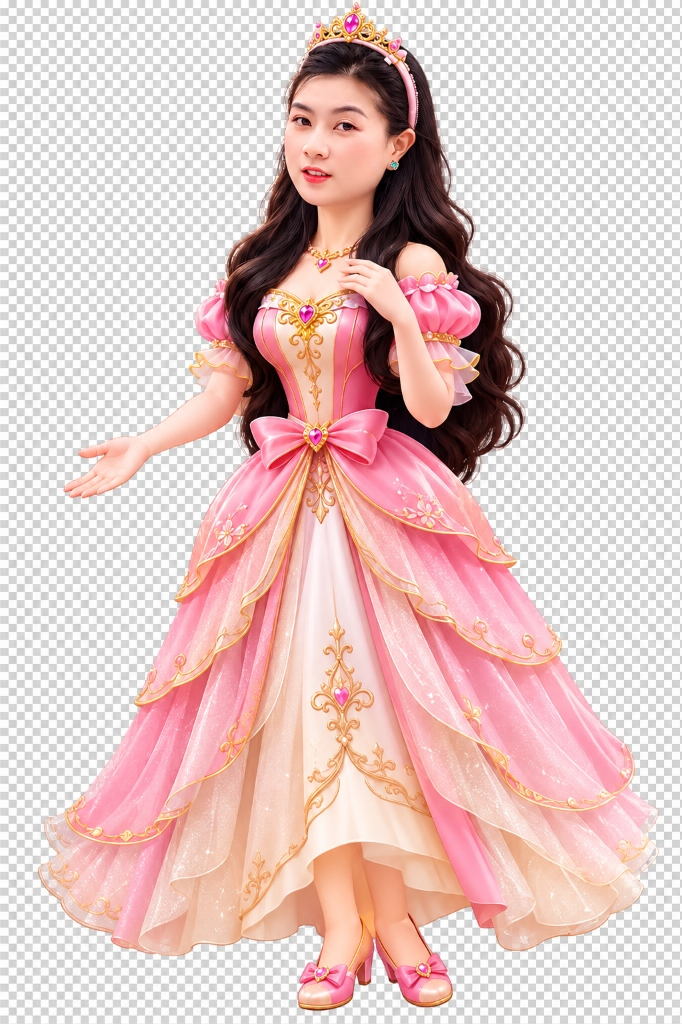
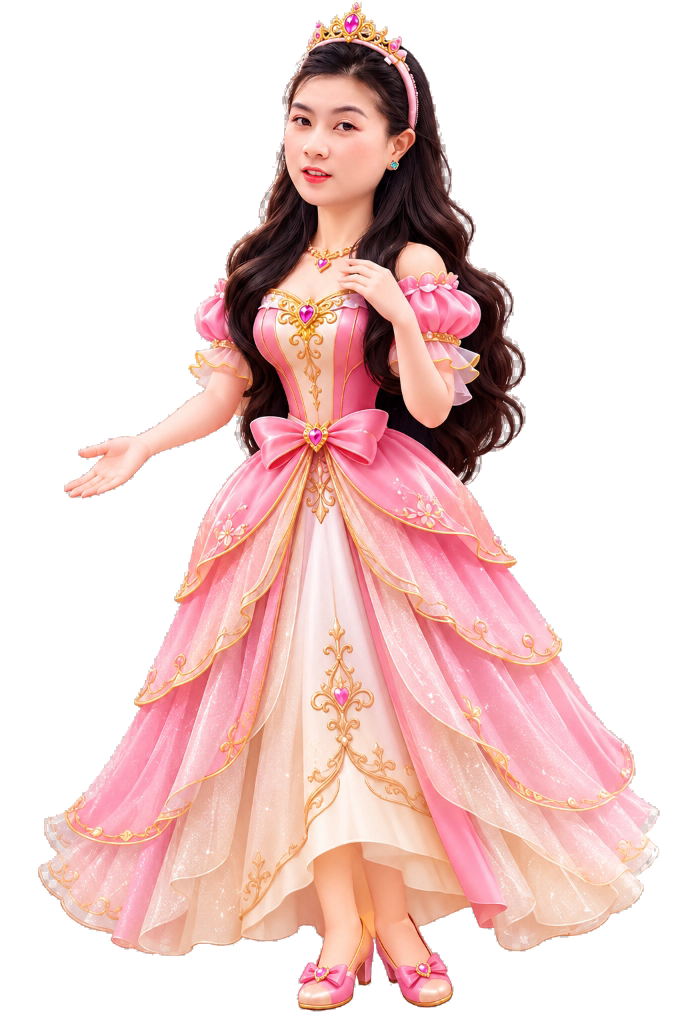
fix(ui): upgrade fonts to Baloo 2 + Nunito with full Vietnamese support, convert Queen image to transparent PNG

Changed region(s): [[0.0, 0.0, 1.0, 1.0]]

diff --git a/src/index.css b/src/index.css
@@ -1,3 +1,4 @@
+@import url('https://fonts.googleapis.com/css2?family=Baloo+2:wght@500;600;700;800;900&family=Nunito:wght@400;600;700;800;900&display=swap');
 @import "tailwindcss";
 
 @layer base {
@@ -18,7 +19,10 @@
     background-color: #020617;
     user-select: none;
     -webkit-user-select: none;
-    font-family: system-ui, -apple-system, BlinkMacSystemFont, 'Segoe UI', Roboto, Oxygen, Ubuntu, Cantarell, sans-serif;
+    font-family: 'Nunito', 'Segoe UI', system-ui, -apple-system, BlinkMacSystemFont, Roboto, sans-serif;
+    text-rendering: optimizeLegibility;
+    -webkit-font-smoothing: antialiased;
+    -moz-osx-font-smoothing: grayscale;
   }
 }
 
@@ -50,7 +54,13 @@
   animation: scaleUp 0.3s cubic-bezier(0.16, 1, 0.3, 1) forwards;
 }
 
-/* Kiểu chữ tiêu đề truyện tranh */
+/* Kiểu chữ tiêu đề truyện tranh & hoạt hình - 100% chuẩn dấu Tiếng Việt, nét tròn dễ thương */
 .font-comic {
-  font-family: 'Comic Sans MS', 'Chalkboard SE', 'Comic Neue', sans-serif;
+  font-family: 'Baloo 2', 'Nunito', 'Segoe UI', Arial, sans-serif;
+  letter-spacing: 0.01em;
+}
+
+/* Kiểu chữ thân thiện cho nội dung câu hỏi và giao diện */
+.font-rounded {
+  font-family: 'Nunito', 'Segoe UI', Arial, sans-serif;
 }

diff --git a/src/features/character/QueenNhiMamiAvatar.tsx b/src/features/character/QueenNhiMamiAvatar.tsx
@@ -19,7 +19,7 @@ export const QueenNhiMamiAvatar: React.FC<QueenNhiMamiAvatarProps> = ({
   speaking = false,
   className = '',
   showLabel = false,
-  variant = 'vector',
+  variant = 'photo',
 }) => {
   // Chuẩn hóa trạng thái nếu truyền speaking cũ
   const currentState: QueenAnimationState = speaking && state === 'idle' ? 'talking' : state;
@@ -65,7 +65,7 @@ export const QueenNhiMamiAvatar: React.FC<QueenNhiMamiAvatarProps> = ({
           <img
             src="/assets/queen-nhi-mami-official.png"
             alt="Nữ Hoàng Nhi Mami"
-            className="w-full h-full object-contain filter drop-shadow-xl rounded-2xl"
+            className="w-full h-full object-contain filter drop-shadow-2xl"
             loading="lazy"
           />
 

diff --git a/src/features/rewards/RewardModal.tsx b/src/features/rewards/RewardModal.tsx
@@ -86,9 +86,9 @@ export const RewardModal: React.FC<RewardModalProps> = ({
 
         {/* HOẠT CẢNH RONIE VÀ NỮ HOÀNG ĂN MỪNG */}
         <div className="flex items-center justify-center gap-6 my-2 p-3 bg-slate-800/80 rounded-2xl border border-slate-700 w-full">
-          <RonieAvatar size="md" state="victory" />
+          <RonieAvatar size="md" state="victory" variant="photo" />
           <div className="text-3xl animate-bounce">💖</div>
-          <QueenNhiMamiAvatar size="md" state="rewarding" />
+          <QueenNhiMamiAvatar size="md" state="rewarding" variant="photo" />
         </div>
 
         {/* LỜI KHEN NGỢI CỦA NỮ HOÀNG */}

diff --git a/src/features/dialogue/DialogueOverlay.tsx b/src/features/dialogue/DialogueOverlay.tsx
@@ -37,9 +37,9 @@ export const DialogueOverlay: React.FC<DialogueOverlayProps> = ({
       {/* AVATAR NHÂN VẬT THOẠI */}
       <div className="flex-shrink-0 flex flex-col items-center">
         {isQueen ? (
-          <QueenNhiMamiAvatar size="lg" speaking={true} />
+          <QueenNhiMamiAvatar size="lg" speaking={true} variant="photo" />
         ) : (
-          <RonieAvatar size="lg" state="thinking" />
+          <RonieAvatar size="lg" state="thinking" variant="photo" />
         )}
         <span
           className={`mt-1 font-black text-xs md:text-sm px-3 py-0.5 rounded-full shadow-sm ${

diff --git a/index.html b/index.html
@@ -12,6 +12,9 @@
     <meta name="mobile-web-app-capable" content="yes" />
     <meta name="apple-mobile-web-app-capable" content="yes" />
     <meta name="apple-mobile-web-app-status-bar-style" content="black-translucent" />
+    <link rel="preconnect" href="https://fonts.googleapis.com" />
+    <link rel="preconnect" href="https://fonts.gstatic.com" crossorigin />
+    <link href="https://fonts.googleapis.com/css2?family=Baloo+2:wght@500;600;700;800;900&family=Nunito:wght@400;600;700;800;900&display=swap" rel="stylesheet" />
   </head>
   <body>
     <div id="root"></div>

diff --git a/src/features/character/RonieAvatar.tsx b/src/features/character/RonieAvatar.tsx
@@ -19,7 +19,7 @@ export const RonieAvatar: React.FC<RonieAvatarProps> = ({
   state = 'idle',
   className = '',
   showLabel = false,
-  variant = 'vector',
+  variant = 'photo',
   costumes,
 }) => {
   // Chuẩn hóa trạng thái tương thích ngược
